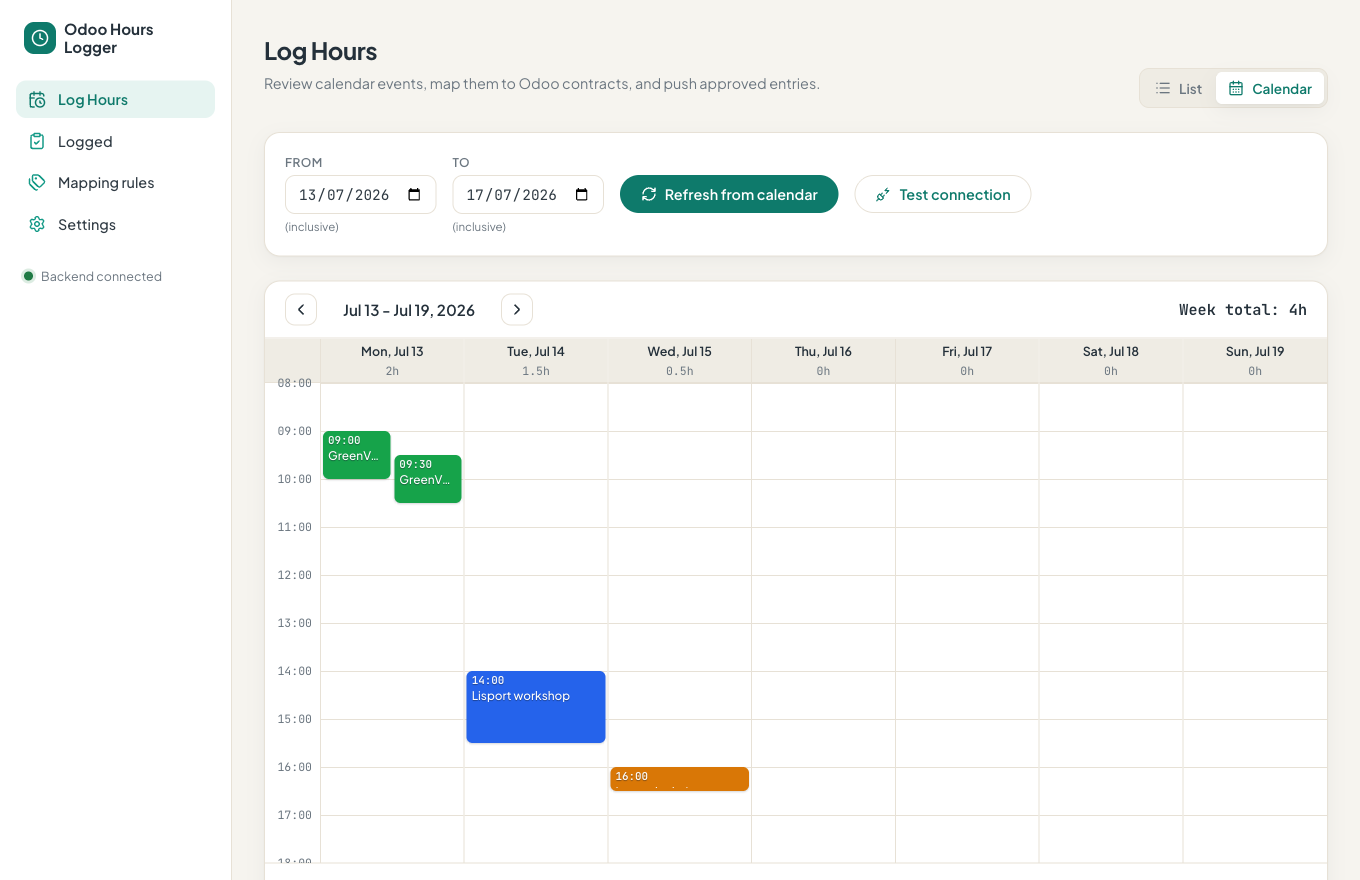
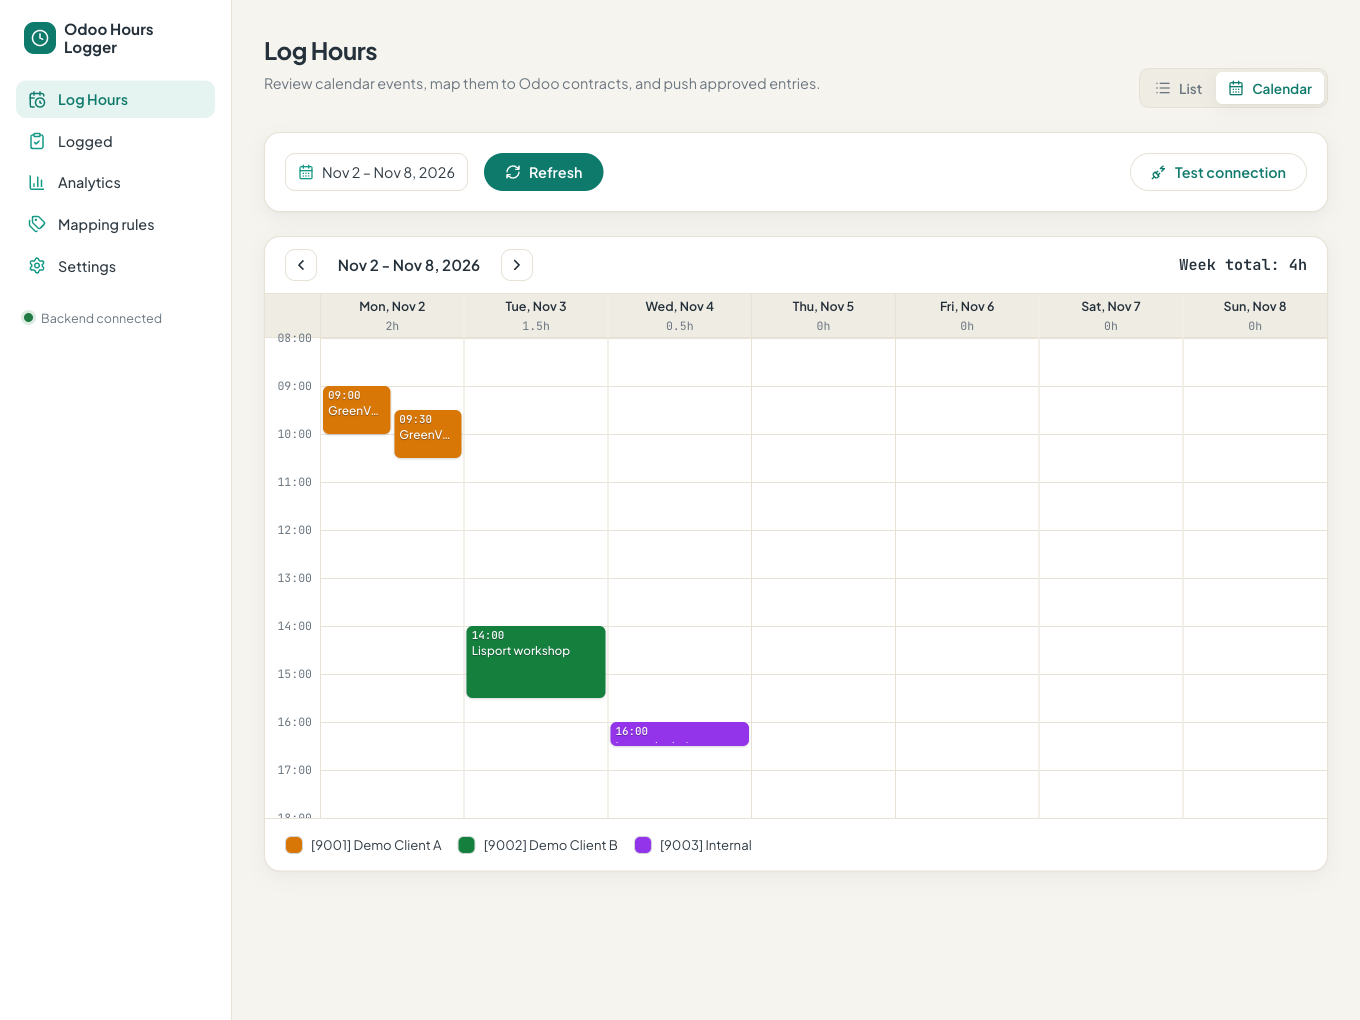
docs: refresh README and screenshots from current main

diff --git a/README.md b/README.md
@@ -1,176 +1,127 @@
 <div align="center">
 
-<img src="frontend/public/favicon.svg" width="76" alt="Odoo Hours Logger" />
+<img src="frontend/public/favicon.svg" width="72" alt="Odoo Hours Logger logo" />
 
 # Odoo Hours Logger
 
-**Turn your Google Calendar into Odoo timesheets — review, then push, in a couple of clicks.**
+**Turn your Google Calendar into Odoo timesheets. Review, then push.**
 
 ![Python](https://img.shields.io/badge/Python-3.12-3776AB?logo=python&logoColor=white)
 ![FastAPI](https://img.shields.io/badge/FastAPI-009688?logo=fastapi&logoColor=white)
 ![React](https://img.shields.io/badge/React-61DAFB?logo=react&logoColor=black)
 ![TypeScript](https://img.shields.io/badge/TypeScript-3178C6?logo=typescript&logoColor=white)
-![Vite](https://img.shields.io/badge/Vite-646CFF?logo=vite&logoColor=white)
-![tests](https://img.shields.io/badge/tests-243%20passing-2ea44f)
-![database](https://img.shields.io/badge/database-none-lightgrey)
+
+<img src="docs/images/log-hours.png" width="860" alt="Log Hours: calendar events mapped to Odoo contracts, ready to push" />
+
+<sub>Screenshots use the built-in demo data.</sub>
 
 </div>
 
-> Reads your Google Calendar, maps each event to an Odoo **contract** via keyword rules, lets you
-> **review** the proposed entries, then **pushes** them to Odoo's timesheet. Runs entirely locally —
-> no database, no LLM. Plain keyword matching, plain JSON state files.
+## What it does
 
-<p align="center">
-  <img src="docs/images/log-hours.png" width="840" alt="Log Hours — review calendar events mapped to contracts, then push" />
-</p>
+Reads your Google Calendar, maps each event to an Odoo **contract** with keyword rules, lets you **review** the proposed entries, then **pushes** them to Odoo's timesheet. It runs locally: plain keyword matching, plain JSON state files, no database, no LLM.
 
-<p align="center"><sub>All screenshots use built-in <b>demo data</b>.</sub></p>
+1. **Import**: pick a date range and refresh; events come from your calendar's secret iCal URL.
+2. **Match**: keyword rules map each event title to a contract (first match wins); filter words drop noise like "Lunch".
+3. **Review**: change the contract or description, remove stray events, approve what you want.
+4. **Push**: approved entries are created in Odoo. Rows already logged are greyed out, so re-imports never double-log.
 
-## ✨ Features
+## Features
 
-- 📅 **Calendar import** from your Google Calendar's secret iCal URL — recurring events expanded; all-day & declined events skipped.
-- 🏷 **Keyword → contract rules** with per-contract **colors**; events auto-match as you type a range.
-- ✅ **Review, then push** — global / per-week / per-day / per-row approve, with dedup so you never double-log.
-- 🗓 **List _and_ calendar views**, colour-coded by contract, with side-by-side overlaps.
-- 📊 **Logged overview** — per-contract **logged vs. to-be-logged** hours, month-to-date.
-- 🧹 **Filter words** to skip non-work events (e.g. _"Out of Office"_, _"Lunch"_).
-- ⚙ **Editable, masked settings** saved to `.env`, with a step-by-step guide for creating your Odoo API key.
-- 🔌 **Odoo API-key sign-in** with a clear **"check your VPN"** prompt when Odoo is unreachable.
-- 🧪 **Demo mode** + a full test suite (**127** backend, **116** frontend).
+- **Calendar import** with recurring events expanded; all-day and declined events skipped.
+- **Keyword rules** with per-contract colors. When you pick a contract by hand, the app offers to save it as a rule.
+- **Contract warnings**: rules pointing at an ended contract and rows outside a contract's dates are flagged, with a reassign dropdown.
+- **Review before push**: approve all, per week, per day, or per row.
+- **List and calendar views**, color-coded by contract, with overlaps shown side by side.
+- **Logged overview**: logged vs. to-be-logged hours per contract, with a calendar of the blocks.
+- **Analytics**: a stacked column chart over time (day, week or month; by project or billable; hours, revenue, cost or margin) and a per-project table.
+- **API-key sign-in** to Odoo, with a "check your VPN" prompt when Odoo is unreachable.
+- **Demo mode**: runs on sample contracts and events, no Odoo or calendar needed.
 
-## 📸 Screenshots
+## Screenshots
 
 <table>
   <tr>
     <td width="50%"><img src="docs/images/calendar.png" alt="Calendar view" /></td>
+    <td width="50%"><img src="docs/images/analytics.png" alt="Analytics" /></td>
+  </tr>
+  <tr>
+    <td align="center"><b>Calendar view</b><br />Blocks color-coded by contract</td>
+    <td align="center"><b>Analytics</b><br />Hours, revenue, cost and margin over time</td>
+  </tr>
+  <tr>
     <td width="50%"><img src="docs/images/logged.png" alt="Logged overview" /></td>
-  </tr>
-  <tr>
-    <td align="center"><b>Calendar view</b> — blocks colour-coded by contract</td>
-    <td align="center"><b>Logged</b> — logged vs. to-be-logged per contract</td>
-  </tr>
-  <tr>
     <td width="50%"><img src="docs/images/mapping-rules.png" alt="Mapping rules" /></td>
-    <td width="50%"><img src="docs/images/settings.png" alt="Settings" /></td>
   </tr>
   <tr>
-    <td align="center"><b>Mapping rules</b> — keyword → contract + filter words</td>
-    <td align="center"><b>Settings</b> — masked config, editable, saved to <code>.env</code></td>
+    <td align="center"><b>Logged</b><br />Logged vs. to-be-logged per contract</td>
+    <td align="center"><b>Mapping rules</b><br />Keywords to contracts, with filter words</td>
   </tr>
 </table>
 
-## 🚀 Quick start
+## Quick start
+
+You need Python 3.12+ and Node.js.
 
 ```bash
-# 1. Backend
+# Backend
 cd backend && python -m venv .venv && . .venv/bin/activate && pip install -e ".[dev]"
 
-# 2. Frontend
+# Frontend
 cd ../frontend && npm install
 
-# 3. Config — copy the template and fill it in (or edit later in the Settings tab)
-cp backend/.env.example backend/.env
+# Config (or fill it in later from the Settings tab)
+cd .. && cp backend/.env.example backend/.env
 
-# 4. Run both (backend :8010 + frontend :5173)
+# Run both: backend on :8010, frontend on :5173
 ./run.sh
 ```
 
-Then open **http://localhost:5173**.
+Open **http://localhost:5173**.
 
-**Just want to look around?** Set `DEMO_MODE=true` in `backend/.env` — the app runs on sample
-contracts and events with a simulated push (no Odoo or calendar needed). All the screenshots above
-are demo mode.
+**Just looking around?** Set `DEMO_MODE=true` in `backend/.env` to run on sample data with a simulated push.
 
-> **Configuration:** the key values are your Google Calendar **secret iCal URL** and your Odoo
-> sign-in: your Odoo **login + API key** (it does not expire, and the Settings tab walks you
-> through creating one). Full variable reference and the technical details are in
-> **[`docs/GUIDE.md`](docs/GUIDE.md)**.
+### Configuration
 
-## 🖥 Desktop app (macOS)
+| Setting | Where to get it |
+|---|---|
+| `GOOGLE_CALENDAR_URL` | Google Calendar → Settings → your calendar → Integrate calendar → **Secret address in iCal format** |
+| `ODOO_USERNAME` | Your Odoo login email |
+| `ODOO_API_KEY` | Odoo → avatar → My Profile → Account Security → **New API Key** (the Settings tab walks you through it) |
 
-Build a standalone `Odoo Hours Logger.app` you can keep in `/Applications` and
-launch like any other app — no terminal, no repo needed at runtime.
+You can edit everything in the **Settings** tab; it saves to `backend/.env` and applies immediately. The full variable reference and the technical walkthrough are in [`docs/GUIDE.md`](docs/GUIDE.md).
 
-### Install on your Mac (from a fresh clone)
+## Desktop app (macOS)
 
-End-to-end — from nothing to an app sitting in `/Applications`:
+Build a standalone `Odoo Hours Logger.app` that you can keep in `/Applications`, with no terminal needed at runtime.
 
 ```bash
-# 1. Clone
-git clone https://github.com/martimfasantos/odoo-hours-logger.git
-cd odoo-hours-logger
+# After the Quick start setup above, add the build tools
+cd backend && . .venv/bin/activate && pip install -e ".[dev,packaging]" && cd ..
 
-# 2. One-time setup — backend venv + build tools (PyInstaller, pywebview), then frontend deps
-cd backend && python -m venv .venv && . .venv/bin/activate && pip install -e ".[dev,packaging]"
-cd ../frontend && npm install && cd ..
+brew install librsvg    # optional: generates the app icon
+./build_app.sh          # builds dist-app/Odoo Hours Logger.app
 
-# 3. Configure — your Google Calendar iCal URL + Odoo login and API key (or fill these in later in Settings)
-cp backend/.env.example backend/.env   # then edit backend/.env
-
-# 4. (optional) prettier app icon
-brew install librsvg
-
-# 5. Build the .app
-./build_app.sh
-
-# 6. Drop it into /Applications
 mv "dist-app/Odoo Hours Logger.app" /Applications/
-
-# 7. Launch it — first time: right-click in Finder → Open (unsigned, Gatekeeper warns once)
-open "/Applications/Odoo Hours Logger.app"
 ```
 
-During the build your `backend/.env` and `backend/data/` are copied once into
-`~/Library/Application Support/Odoo Hours Logger/` — so the installed app is
-already configured on first launch and reads/writes its data there afterwards.
-After pulling new changes, just re-run `./build_app.sh` and copy the rebuilt
-app over; your config in Application Support is left untouched.
+- **First launch:** the app is unsigned, so right-click it in Finder → **Open** once to get past Gatekeeper.
+- **Config and data:** the first build copies your `backend/.env` and `backend/data/` to `~/Library/Application Support/Odoo Hours Logger/`. The installed app reads and writes there, and rebuilding leaves it untouched.
+- **Odoo access:** the company VPN is still required.
 
-### Build
+Development is unaffected; keep using `./run.sh`.
 
-```bash
-./build_app.sh
-```
+## Tech stack
 
-This builds the frontend, bundles the Python backend + UI with PyInstaller, and
-produces `dist-app/Odoo Hours Logger.app`. Optional: `brew install librsvg` for
-a custom app icon (otherwise the default icon is used).
+| | |
+|---|---|
+| **Backend** | Python 3.12, FastAPI, httpx, icalendar and recurring-ical-events, Odoo web JSON-RPC, JSON files |
+| **Frontend** | React, TypeScript, Vite, plain CSS design system |
+| **Tests** | pytest, Vitest and React Testing Library |
 
-On the first build your existing `backend/.env` and `backend/data/` are copied
-once into `~/Library/Application Support/Odoo Hours Logger/`, which is where the
-installed app reads and writes its config and data thereafter.
-
-### First launch
-
-The app is unsigned, so the first time, **right-click it → Open** and confirm
-(Gatekeeper warns once). After that, double-click as usual. The company VPN is
-still required to reach Odoo.
-
-### Development
-
-Packaging changes nothing about development — keep using `./run.sh` (FastAPI on
-:8010 + Vite on :5173).
-
-## 🧭 How it works
-
-1. **Import** — pick a date range, _Refresh from calendar_; events are fetched from the iCal URL and parsed.
-2. **Match** — keyword rules map each event title to an Odoo contract (first matching rule wins); filter words drop noise.
-3. **Review** — adjust contracts/descriptions, remove stray events, approve what you want.
-4. **Push** — approved entries are created in Odoo (`timesheet_entry`); already-logged rows are greyed out so re-imports never double-log.
-
-Full technical walkthrough — Odoo API-key auth, how contracts are fetched, calendar parsing, rules,
-dedup, the Logged overview — in **[`docs/GUIDE.md`](docs/GUIDE.md)**.
-
-## 🛠 Tech stack
-
-**Backend:** Python 3.12 · FastAPI · httpx · icalendar + recurring-ical-events · Odoo web JSON-RPC ·
-plain JSON files (no database).
-**Frontend:** React · TypeScript · Vite · plain CSS design system.
-**Tests:** pytest (backend) · Vitest + React Testing Library (frontend).
-
-## ✅ Tests
+## Tests
 
 ```bash
-cd backend && . .venv/bin/activate && pytest    # 127 passing
-cd frontend && npm test                          # 116 passing
+cd backend && . .venv/bin/activate && pytest
+cd frontend && npm test
 ```
